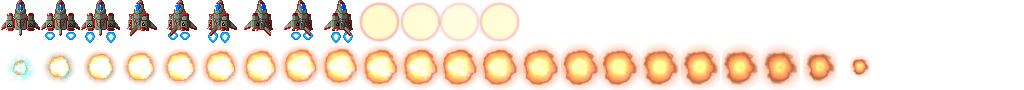
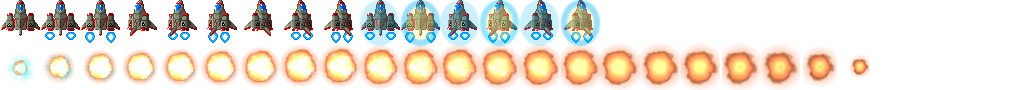
Add shield animation

Changed region(s): [[0.3438, 0.0, 0.5938, 0.5111]]

diff --git a/Asteroids/Ship.cpp b/Asteroids/Ship.cpp
@@ -21,6 +21,9 @@ Ship::Ship(float x, float y, sf::Texture& texture_sheet, int lives, float scale)
     animation_component_->AddAnimation("ship", 8.f, 1, 0, 2, 0, 40, 45);
     animation_component_->AddAnimation("ship_l", 5.f, 4, 0, 5, 0, 40, 45);
     animation_component_->AddAnimation("ship_r", 5.f, 7, 0, 8, 0, 40, 45);
+    animation_component_->AddAnimation("ship_sh", 8.f, 9, 0, 10, 0, 40, 45);
+    animation_component_->AddAnimation("ship_l_sh", 5.f, 11, 0, 12, 0, 40, 45);
+    animation_component_->AddAnimation("ship_r_sh", 5.f, 13, 0, 14, 0, 40, 45);
     animation_component_->AddAnimation("ship_explode", 5.f, 0, 1, 21, 1, 40, 45);
 }
 
@@ -32,7 +35,7 @@ Ship::~Ship()
 void Ship::InitVariables()
 {
     name_           = "ship";
-    animation_name_ = name_;
+    animation_name_ = "ship_sh";
     max_velocity_   = 200.f * scale_factor_;
     acceleration_   = 400.f * scale_factor_;
 }
@@ -44,7 +47,10 @@ void Ship::InitComponents()
 //Functions
 void Ship::ResetAnimationName()
 {
-    animation_name_ = name_;
+    if (!invulnerability_)
+        animation_name_ = name_;
+    else
+        animation_name_ = "ship_sh";
 }
 
 void Ship::Update(const float& delta, const sf::Vector2u& window_size)
@@ -71,16 +77,22 @@ void Ship::Update(const float& delta, const sf::Vector2u& window_size)
 
 void Ship::Move(const float dir_x, const float dir_y, const float& delta)
 {
-    Entity::Move(dir_x, dir_y, delta);
-
     //Ship animation preset based on movement
 
-    if (dir_x > 0)
+    if (dir_x > 0 && !invulnerability_)
         animation_name_ = "ship_r";
-    else if (dir_x < 0)
+    else if (dir_x < 0 && !invulnerability_)
         animation_name_ = "ship_l";
+    else if(dir_x > 0 && invulnerability_) 
+        animation_name_ = "ship_r_sh";
+    else if (dir_x < 0 && invulnerability_) 
+        animation_name_ = "ship_l_sh";
+    else if (invulnerability_)
+        animation_name_ = "ship_sh";
     else
         animation_name_ = name_;
+
+    Entity::Move(dir_x, dir_y, delta);
 }
 
 void Ship::SetAlive(bool is_alive)

diff --git a/Asteroids/GameState.cpp b/Asteroids/GameState.cpp
@@ -130,7 +130,7 @@ void GameState::InitTextItems(Ship* s)
     score_text_.setString(score_text.append(std::to_string(score_)));
 
     invoulnerable_text_.setFont(font_);
-    invoulnerable_text_.setPosition(sf::Vector2f(gui::PercToPixelX(42.f, vm), gui::PercToPixelY(45.f, vm)));
+    invoulnerable_text_.setPosition(sf::Vector2f(gui::PercToPixelX(42.f, vm), gui::PercToPixelY(90.f, vm)));
     invoulnerable_text_.setCharacterSize(gui::CalcFontSIze(vm, 70));
     invoulnerable_text_.setFillColor(sf::Color(255, 0, 0, 200));
     invoulnerable_text_.setOutlineThickness(2);
